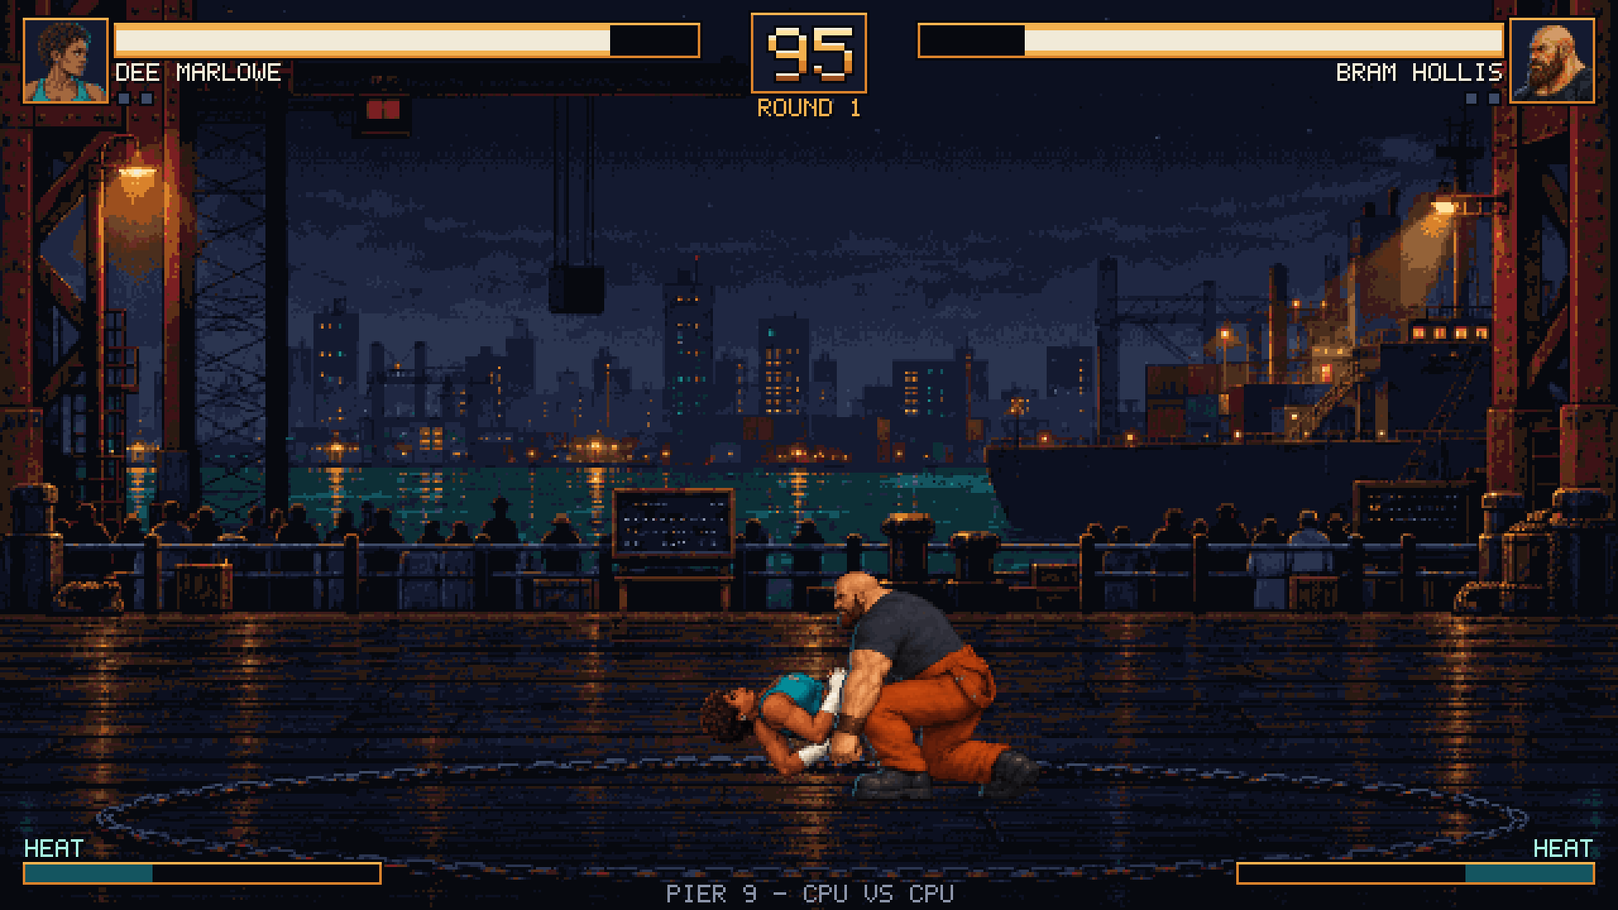
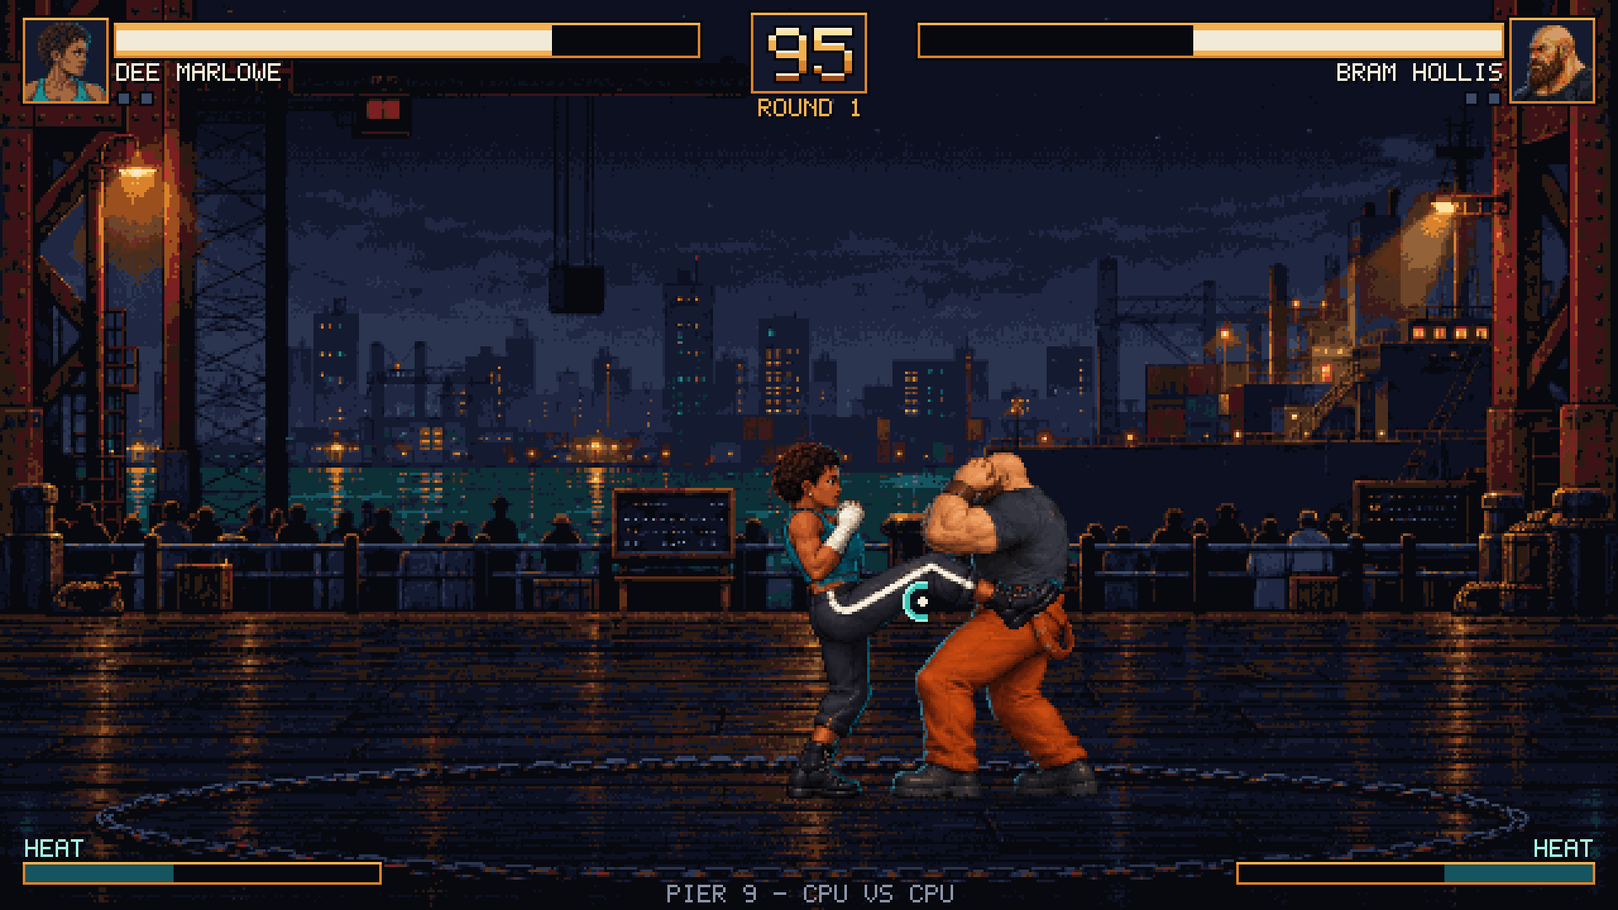
Document the hit-feel pass and the Heat decision (ADR-0018)
ADR-0018, heat.md updated with the decision and new measurements,
controls (counters, combos, cancels, on-block numbers), audio, setting,
roadmap, README (status, flags, a new demo capture).

Claude-Session: https://claude.ai/code/session_01LvD3Rr7D8U8WWpPFd1yPmD

diff --git a/docs/controls.md b/docs/controls.md
@@ -53,9 +53,16 @@ Each direction of a motion must follow the last within 12 ticks (0.2 s), and the
 | **Guard** | Guard button, or hold back | Blocks high and mid attacks standing; crouch-guard (guard + down, or down-back) also blocks lows. Not in the air. |
 | **Throw** | LP + LK together, close | Each fighter has one (below). Can't be blocked; ground only. |
 | **Throw tech** | LP + LK within 10 ticks of being grabbed | Breaks a normal throw. Command throws (Dock Hoist) can't be teched. |
-| **Breakaway** | Guard + HP + HK, with 50 Heat | Spends half the Heat bar to cancel blockstun and shove the opponent away (within 120 px). The only thing Heat pays for. |
+| **Breakaway** | Guard + HP + HK while blocking, with 50 Heat | A guard cancel: only in blockstun. Spends half the Heat bar, ends your blockstun and staggers the attacker for 18 ticks (no damage), close enough to punish. Outside blockstun the buttons are just a heavy attack. The only thing Heat pays for. |
 
-Heat builds by landing hits (12), taking hits (6), blocking (8) and having an attack blocked (3). There are no super or desperation moves.
+Heat builds by landing hits (7), taking hits (4), blocking (5) and having an attack blocked (2), and **lasts the whole match**: what you don't spend carries into the next round. There are no super or desperation moves.
+
+### Counter hits, combos and cancels
+
+- **Counter hit:** hitting a fighter while their attack is starting up or swinging (a trade doesn't count). It does 25 % more damage, adds 6 ticks of hitstun and a longer freeze, and the HUD calls **COUNTER**.
+- **Combo:** each hit that lands while the opponent is still reeling from the last one. The HUD counts the hits ("3 HITS"). Damage scales down per hit: 100 %, 85 %, 70 %, 55 %, then 50 %.
+- **Cancel:** light punches and light kicks marked *cancels* can be cut short by the special when they hit or are blocked. Enter the motion during the light attack and press the button within 6 ticks of its active frames ending. For example, Dee's jab into Rush Uppercut.
+- **On block**, light attacks are roughly even (−1 to +2). Heavies, sweeps and specials stay well minus, so blocking them earns you a punish.
 
 ## Dee Marlowe — boxer / counter
 
@@ -63,9 +70,9 @@ Fast, precise, punishes whiffs. Inputs written for each side at the start of a r
 
 | Move | Button / motion | Player 1 (facing right) | Player 2 (facing left) | Startup / active / recovery | Damage | Notes |
 | --- | --- | --- | --- | --- | --- | --- |
-| Stiff Jab | LP | F | Keypad 1 | 4 / 3 / 10 | 6 | Fastest button |
+| Stiff Jab | LP | F | Keypad 1 | 4 / 3 / 10 | 6 | Fastest button; cancels; −1 to +1 on block |
 | Cross Counter | HP | G | Keypad 2 | 8 / 3 / 20 | 12 | Heavy |
-| Shin Kick | LK | H | Keypad 3 | 7 / 4 / 15 | 9 | |
+| Shin Kick | LK | H | Keypad 3 | 7 / 4 / 15 | 9 | Cancels; −1 to +2 on block |
 | Leg Sweep | HK | J | Keypad 0 | 12 / 5 / 23 | 14 | Low (crouch-guard it), knocks down |
 | Clinch Toss | LP + LK, close | F + H | Keypad 1 + 3 | 3 / 2 / 22 | 10 | Throw, techable |
 | **Rush Uppercut** | **236 + P** (↓ ↘ → + either punch) | **S, S+D, D + F or G** | **↓, ↓+←, ← + Keypad 1 or 2** | 6 / 4 / 20 | 14 | Special: drives forward and rises; knocks down. Whiffs are very punishable |
@@ -76,9 +83,9 @@ Slow advance, close-range reads, a command throw.
 
 | Move | Button / motion | Player 1 (facing right) | Player 2 (facing left) | Startup / active / recovery | Damage | Notes |
 | --- | --- | --- | --- | --- | --- | --- |
-| Palm Shove | LP | F | Keypad 1 | 4 / 3 / 10 | 6 | |
+| Palm Shove | LP | F | Keypad 1 | 4 / 3 / 10 | 6 | Cancels; −1 to +1 on block |
 | Anchor Hook | HP | G | Keypad 2 | 10 / 3 / 23 | 16 | Heavy |
-| Boot Kick | LK | H | Keypad 3 | 7 / 4 / 15 | 9 | |
+| Boot Kick | LK | H | Keypad 3 | 7 / 4 / 15 | 9 | Cancels; −1 to +2 on block |
 | Hull Breaker | HK | J | Keypad 0 | 14 / 5 / 26 | 18 | Low (crouch-guard it), knocks down |
 | Pier Toss | LP + LK, close | F + H | Keypad 1 + 3 | 3 / 2 / 24 | 13 | Throw, techable |
 | **Dock Hoist** | **63214 + P** (→ ↘ ↓ ↙ ← + either punch) | **D, S+D, S, S+A, A + F or G** | **←, ↓+←, ↓, ↓+→, → + Keypad 1 or 2** | 5 / 2 / 34 | 20 | Special: command throw with a longer reach than Pier Toss; can't be teched, only avoided (jump, or hit him first). Huge recovery on a miss |

diff --git a/docs/adr/0018-hit-feel-and-heat.md b/docs/adr/0018-hit-feel-and-heat.md
@@ -1,0 +1,59 @@
+# ADR-0018: Counter hits, combos and cancels; the Breakaway as a guard cancel; Heat for the match
+
+- **Status:** Accepted
+- **Date:** 2026-10-30
+
+## Context
+
+Hits had one weight whatever the situation, and nothing chained. The [Heat review](../design/heat.md) found the meter near full and nearly useless: every attack was 5–23 ticks minus on block, and the Breakaway pushed the attacker out of punish range. The owner chose options A + B + C of that review. The M2 roadmap also asks for a hitstop, shake and flash pass, HDR-aware sparks, and hit-confirm audio layering, which needs counter hits and combo counts in the simulation.
+
+## Decision
+
+**Simulation** (deterministic; every new field is in the checksum):
+
+- **Counter hits.** A strike that lands while the opponent's own attack is in startup or active frames is a counter hit, unless both hit on the same tick (a trade). It does 125 % damage, +6 ticks of hitstun and +4 ticks of hitstop.
+- **Combos.** `Fighter::combo` counts the hits taken while still in hitstun, and resets when the fighter recovers.
+  - Damage scales 100 / 85 / 70 / 55 %, then 50 % for every later hit, so long strings don't delete a health bar.
+- **Cancels.** A move marked `"cancel": true` that connected (hit or block) can be cancelled into the fighter's special during its active frames plus 6 ticks. The light normals of Dee and Bram carry it.
+- **(B) Pressure.**
+  - Light attacks have real blockstun: jabs 11, light kicks 17. They are now −1 to +2 on block.
+  - Heavies and sweeps get 10–12 and stay clearly punishable.
+- **(A) Breakaway = guard cancel.** It is only possible in blockstun, still guard + HP + HK for 50 Heat. It ends the blockstun and staggers the attacker: 18 ticks of hitstun, no damage, a 24 px slide. The defender gets a punish.
+  - Outside blockstun the chord is just a heavy attack.
+  - The CPU uses it only while blocking.
+- **(C) Heat lasts the match.** `Match` carries each fighter's Heat into the next round. A new match starts at 0.
+  - The gains are lower (hit +7, hit taken +4, block +5, blocked +2) so 50 Heat is something to save for.
+- `StepEvents` items gain `attacker`, `combo` and `counter`, for presentation.
+- The golden checksum is rebaselined once for all of this. The history is in the test.
+
+**Presentation** (reacts to events only):
+
+- **HUD callouts:** "N HITS" for combos of two or more, COUNTER and BREAKAWAY on the side that did it.
+- **Audio layering:** the hit sound, plus a counter sting, plus a combo blip whose pitch rises 12 % per hit (up to 1.7×), using `MIX_SetTrackFrequencyRatio`.
+- **Shake:** a horizontal world shake that keeps counting through hitstop, so it sells the freeze. The HUD stays still. Amplitudes:
+
+  | Event | Shake |
+  | --- | --- |
+  | Heavy hit | 2 px |
+  | Counter heavy hit | 3 px |
+  | Slam | 4 px |
+  | K.O. | 5 px |
+  | Breakaway | 2 px |
+
+- **Flash:** a short additive white wash on counter hits and K.O.s.
+- **Screen effects option:** `screen-effects=full|reduced`, in Options and `prefs.cfg`. Reduced caps the shake at 1 px and turns flashes off.
+- **HDR sparks:** on HDR output, effects get a second, additive pass whose strength follows the display's headroom, so sparks glow above SDR white. SDR output is unchanged.
+  - Float textures were not needed: the sources are 8-bit pixel art, and the colour scale already reaches above 1.
+
+## Consequences
+
+- Light-attack pressure exists, and the Breakaway is the answer to it. Saving Heat across rounds is a choice.
+- Training (F3) shows the frame data; the new on-block numbers are in [controls.md](../controls.md).
+- Balance now depends on more numbers: blockstun, cancel flags, scaling, Heat gains. They all live in the fighter files or in named constants in `Round.h` and `Round.cpp`.
+- The CPU still doesn't use cancels or specials. Arcade difficulty levels (the M2 arcade ladder) will have to.
+
+## Alternatives considered
+
+- **Chains (light into light) instead of special cancels:** more input-heavy for an early-90s feel. Special cancels are the genre's classic first step.
+- **Counter hits on any hit during the opponent's recovery:** that punishes whiffs twice; recovery is already the punish window.
+- **Vertical shake:** every world-space draw would need a y offset. Horizontal shake reads well at 640 × 360.

diff --git a/README.md b/README.md
@@ -5,11 +5,11 @@
 
 An early-90s style arcade fighting game about the **Iron Ring** — an illegal, invitation-only fight-club tournament in the dying port city of Grayhaven, 1992. Big pixel-art sprites, four attack buttons, throws and specials, short explosive exchanges, built on a small, testable C++20 / SDL3 codebase. Setting and cast: [docs/design/setting.md](docs/design/setting.md).
 
-![Bram Hollis slams Dee Marlowe with the Dock Hoist at Pier 9](docs/images/m1-demo-capture.png)
+![Dee Marlowe's Shin Kick lands on Bram Hollis at Pier 9](docs/images/demo-capture.png)
 
-*Above: a real frame captured with `-batchmode -demo -screenshot`: Bram Hollis's Dock Hoist slams Dee Marlowe at Pier 9. Fighters and stages are from Iron Ring Art Pack v1 ([ADR-0012](docs/adr/0012-adopting-external-art.md)); the music (a theme per venue), sound effects and announcer are generated on a model of the NES sound chip ([docs/audio.md](docs/audio.md)).*
+*Above: a real frame captured with `-batchmode -demo -frames 420 -screenshot` at 1920 × 1080: Dee Marlowe's Shin Kick lands on Bram Hollis at Pier 9. Fighters and stages are from Iron Ring Art Pack v1 ([ADR-0012](docs/adr/0012-adopting-external-art.md)); the music (a theme per venue), sound effects and announcer are generated on a model of the NES sound chip ([docs/audio.md](docs/audio.md)).*
 
-> **Status: M2 — Complete local play, in progress.** M1 delivered Dee vs Bram with data-driven fighters, throws, specials, knockdowns, best-of-3 rounds, a pixel-art HUD, a training mode, venue themes and an announcer. M2 so far: the front end (title with an attract demo, character select, stage select, options, pause and rematch menus), saved options and gamepads. See [ROADMAP.md](ROADMAP.md).
+> **Status: M2 — Complete local play, in progress.** M1 delivered Dee vs Bram with data-driven fighters, throws, specials, knockdowns, best-of-3 rounds, a pixel-art HUD, a training mode, venue themes and an announcer. M2 so far: the front end (title with an attract demo, character and stage select, options, pause and rematch menus), saved options, gamepads and remapping, layered scrolling stages with a reacting crowd, and the hit-feel pass: counter hits, combos and cancels, a Breakaway that guard-cancels, and Heat that lasts the match. See [ROADMAP.md](ROADMAP.md).
 
 ![The title menu, character select, stage select and pause menu](docs/images/m2-front-end.png)
 
@@ -97,7 +97,7 @@ The full scheme for both players, the menus and pads, with each fighter's moves 
 | Light kick / heavy kick | H / J | Keypad 3 / 0 |
 | Guard | Space, or hold back | Right Shift, or hold back |
 | Throw (close) / throw tech (when grabbed) | F + H (LP + LK) | Keypad 1 + 3 |
-| Breakaway (50 Heat) | Guard + G + J | Guard + Keypad 2 + 0 |
+| Breakaway (50 Heat, while blocking) | Guard + G + J | Guard + Keypad 2 + 0 |
 | Menus: confirm / back | F (light punch) or Return / H (light kick) or Backspace | Keypad 1 / Keypad 3 |
 | Pause | Escape | Escape |
 
@@ -131,8 +131,9 @@ Unity-compatible names where they exist:
 | `-dummy <mode>` | Training dummy: `stand`, `crouch`, `jump`, `guard`, `guard-all` (crouches against lows), `cpu` |
 | `-stage <id>` | Straight into a fight on a stage: `pier_nine`, `lantern_row`, `foundry`, `the_crown` |
 | `-scene <name>` | Open `title`, `select`, `stage` or `options` (screenshots, testing) |
-| `-keys "<frame>:<key>,..."` | Batch tests: tap keys (SDL key names) at the given frames, e.g. `"10:Return,30:Down"` |
+| `-keys "<frame>:<key>,..."` | Batch tests: tap keys (SDL key names) at the given frames, e.g. `"10:Return,30:Down"`; `"30-90:D"` holds a key, `"40:S+D"` presses keys together |
 | `-music-volume 0..1`, `-sfx-volume 0..1`, `-voice-volume 0..1` | Mix-group volumes (also in `boot.config` and Options) |
+| `-screen-effects full\|reduced` | Reduced: a gentle shake and no full-screen flashes (also in Options) |
 | `-hdr auto\|on\|off`, `-vsync 0\|1`, `-presentation integer\|letterbox`, `-render-driver <name>` | Override `boot.config` |
 | `-data-folder <path>` | Use another `<name>_Data` folder |
 | `-assets-folder <path>` | Mount a loose `Assets/` folder over the archives (edit-and-run without repacking) |

diff --git a/docs/design/heat.md b/docs/design/heat.md
@@ -1,8 +1,26 @@
-# Heat: what it does today, and what it could do
+# Heat: what it did, and what it does now
 
-Review, 2026-10-30, against the M2 code (`Source/Simulation/Round.cpp`) and the shipped fighter data. Heat is the 0–100 meter under each health bar.
+Heat is the 0–100 meter under each health bar.
 
-## The rules as built
+> **Decision (2026-10-30): options A + B + C, built with the hit-feel pass ([ADR-0018](../adr/0018-hit-feel-and-heat.md)).** The section "Now" below is what the game does; the review that led to it follows.
+
+## Now
+
+| | |
+| --- | --- |
+| **Gain** | landing a hit or a throw +7; taking one +4; blocking +5; having your attack blocked +2. Capped at 100. |
+| **Lifetime** | the whole match: Heat carries into the next round (C). |
+| **Spend** | the **Breakaway**, only in blockstun (A): guard + HP + HK, 50 Heat. It ends your blockstun and **staggers the attacker** for 18 ticks without damage, sliding them 24 px: still in reach, so the defender punishes. |
+| **Pressure to break** | light attacks are −1 to +2 on block and cancel into the special (B), so a defender can be kept under strings worth escaping. Heavies and specials stay punishable on block. |
+| **CPU** | breaks away now and then while it is in blockstun, never in neutral. |
+
+Measured again over 40 CPU-vs-CPU matches (93 rounds): Breakaways roughly doubled, and fighters end rounds with 61–67 Heat on average (from 81–91), now banked for the next round instead of thrown away. The lower gains keep a Breakaway something to save for.
+
+## Review (before the change)
+
+Against the M2 code and the shipped fighter data, as it was:
+
+### The rules as built
 
 | | |
 | --- | --- |
@@ -11,7 +29,7 @@ Review, 2026-10-30, against the M2 code (`Source/Simulation/Round.cpp`) and the 
 | **Lifetime** | one round. `Round::reset()` starts both fighters at 0 every round. |
 | **Desperation / supers** | none, by decision (2026-10-29). |
 
-## What it actually does
+### What it actually did
 
 Heat has a role on paper, but it hardly matters in play.
 
@@ -35,7 +53,7 @@ Heat has a role on paper, but it hardly matters in play.
 
 In short: the meter fills quickly, sits near full, and its only outlet is rarely worth taking. The crowd now reacts to big hits (stage crowds, M2). That reaction is presentation only and doesn't involve Heat.
 
-## Options (for the project owner)
+### Options considered
 
 All of these keep the "no supers" decision; Heat still pays only for the Breakaway.
 
@@ -48,4 +66,4 @@ All of these keep the "no supers" decision; Heat still pays only for the Breakaw
 - **C. Keep Heat across rounds** (reset per match). It becomes a resource you save for the deciding round instead of a bar that refills for free.
 - **D. Leave it as is** and treat Heat as flavour until the hit-feel pass (counter hits, combos), which will change block and hit advantage anyway.
 
-**Recommendation:** A + B + C, folded into the M2 hit-feel pass. That pass already changes the simulation (counter hits, combo counts) and will rebaseline the golden checksum once. The CPU then spends Heat when it is actually blocking a string, not on a timer.
+**Chosen:** A + B + C.

diff --git a/ROADMAP.md b/ROADMAP.md
@@ -62,7 +62,7 @@ Goal: two characters that feel good in local play on one stage. Target platforms
 - ✅ Persistent settings: `prefs.cfg` in the user folder, between `boot.config` and the command line
 - ✅ Renderer recreation when the HDR option, the display's HDR state or the display changes; fullscreen, scaling and vsync change live
 - ✅ Stage layers and parallax; animated crowds that react to the fight; camera follow (no zoom: pixel art) on stages wider than the screen; **The Foundry**, the first layered venue, with placeholder art and its own theme ([ADR-0017](docs/adr/0017-layered-stages-and-camera.md))
-- ⬜ Hitstop/shake/flash tuning pass; HDR-aware VFX (float textures for sparks); hit-confirm audio layering (needs counter hits and combo counts in the simulation)
+- ✅ Hit feel: counter hits, combo counts with damage scaling, special cancels; shake and flash (with a reduced option); HDR spark glow; layered hit audio (counter sting, rising combo blip); HUD callouts. Heat reworked (A + B + C of [docs/design/heat.md](docs/design/heat.md)): the Breakaway is a guard cancel that staggers, light attacks pressure on block, Heat lasts the match ([ADR-0018](docs/adr/0018-hit-feel-and-heat.md))
 - ⬜ **Vertical slice**: the complete local loop for Dee vs Bram at release quality; final art takes over from placeholder art where the slice needs it (see *How art is made*)
 - ⬜ Arcade ladder with CPU difficulty levels
 
@@ -111,8 +111,9 @@ Goal: two characters that feel good in local play on one stage. Target platforms
 | 2026-10-30 | Art process | Placeholder art and guidelines here, final art made by the owner elsewhere, review and corrections here, then polish; final art replaces placeholders at the vertical slice; Art Pack v2 in M3 |
 | 2026-10-30 | Announcer | Keep the eSpeak NG source for now |
 | 2026-10-30 | Front end | Scene stack; options saved to `prefs.cfg`; Escape pauses instead of quitting; the Arcade entry stays disabled until the ladder lands ([ADR-0015](docs/adr/0015-front-end-scene-stack.md)) |
+| 2026-10-30 | Heat | A + B + C: Breakaway as a guard cancel, light-attack pressure on block, Heat carries across rounds ([docs/design/heat.md](docs/design/heat.md)) |
 | 2026-10-30 | Final art | Art Pack v1 adopted; frames re-registered at one scale, 48 colours per fighter ([ADR-0012](docs/adr/0012-adopting-external-art.md)) |
 
 ## Open questions for the project owner
 
-- **Heat's role.** Heat fills fast and its only use, the Breakaway, rarely helps (every attack is already minus on block). Options and a recommendation: [docs/design/heat.md](docs/design/heat.md).
+None at the moment.

diff --git a/docs/art/asset-spec.md b/docs/art/asset-spec.md
@@ -128,7 +128,7 @@ Units: lengths in logical pixels, speeds in 1/256 px per tick, times in ticks. B
 ```
 
 - `moves` keys: `lightPunch`, `heavyPunch`, `lightKick`, `heavyKick`, `throw`, `special` (all optional, but the starters define all six).
-- Move fields: `name`, `animation`, `startup`, `active`, `recovery`, `hitbox`, `damage`, `hitstun`, `blockstun` (7), `knockback`, `blockPush` (3), `hitstopOnHit` (5), `hitstopOnBlock` (3), `low`, `heavy`, `knockdown`, `advance` (forward speed during the move), `hurt` (optional per-phase hurtboxes: `{"startup"|"active"|"recovery": [[x, y, w, h], ...]}`, one or two boxes each, e.g. the body plus an extended limb; a phase without boxes uses the stand/crouch box); throws add `kind: "throw"`, `holdAnimation`, `throwDuration` (40), `throwDistance` (50), `techable`; specials add `input` in numpad notation (`236P`, `63214P`; P/K = either punch/kick). Values in brackets are defaults.
+- Move fields: `name`, `animation`, `startup`, `active`, `recovery`, `hitbox`, `damage`, `hitstun`, `blockstun` (7), `knockback`, `blockPush` (3), `hitstopOnHit` (5), `hitstopOnBlock` (3), `low`, `heavy`, `knockdown`, `cancel` (the special may cancel its recovery on hit or block), `advance` (forward speed during the move), `hurt` (optional per-phase hurtboxes: `{"startup"|"active"|"recovery": [[x, y, w, h], ...]}`, one or two boxes each, e.g. the body plus an extended limb; a phase without boxes uses the stand/crouch box); throws add `kind: "throw"`, `holdAnimation`, `throwDuration` (40), `throwDistance` (50), `techable`; specials add `input` in numpad notation (`236P`, `63214P`; P/K = either punch/kick). Values in brackets are defaults.
 - `animations` must contain: `idle`, `walk`, `crouch`, `guard`, `guard_crouch`, `jump_rise`, `jump_fall`, `hit`, `hit_crouch`, `held`, `knockdown`, `ko`, `win`, plus every animation a move names. A frame entry is `[frame, ticks]` or, in throw holds, `[frame, ticks, opponentFrame]`.
 - No desperation / super moves: the Heat meter only pays for the Breakaway (guard + HP + HK, 50 Heat), which uses no extra frames.
 

diff --git a/docs/architecture.md b/docs/architecture.md
@@ -42,7 +42,7 @@ Static libraries without SDL (`Core`, `Vfs`, `Simulation`, `Content`) carry ever
 | `Game/FighterView` | simulation state → animation frame (and the held opponent's pose during throws) |
 | `Game/StageView` | a flat stage, or layers with parallax, drift and animation for a camera position; the crowd's excitement (raised by hits, throws, K.O.s) |
 | `Game/Effects` | short sprite effects spawned from `StepEvents`, HDR-boosted |
-| `Game/Hud` | health, Heat, timer, portraits, win markers, round banners, from `hud_layout.json` |
+| `Game/Hud` | health, Heat, timer, portraits, win markers, round banners, from `hud_layout.json`; combo counter and COUNTER / BREAKAWAY callouts |
 | `Game/TrainingOverlay` | F3: hit/hurt boxes (per move phase), move frame data, frame advantage |
 | `Game/InputDisplay` | training: both players' recent inputs (ticks, numpad direction, buttons) |
 | `Game/Controls` | keyboard and gamepads → simulation input bits (edge latch between ticks) and menu actions; bindings from `Core/InputBindings` (per player, per pad device) |

diff --git a/docs/design/setting.md b/docs/design/setting.md
@@ -14,8 +14,8 @@ The **Iron Ring** is an illegal, invitation-only fighting tournament run by a pr
 
 | Term | Meaning | In code / data |
 | --- | --- | --- |
-| **Heat** | 0–100 meter built by hitting, getting hit and blocking — the crowd's attention | `Fighter::meter`, HUD label `meterName` |
-| **Breakaway** | Guard + heavy punch + heavy kick for 50 Heat: a non-damaging shove that cancels blockstun. The only thing Heat pays for | `Effect::Breakaway`, `sim::kBreakCost` |
+| **Heat** | 0–100 meter built by hitting, getting hit and blocking — the crowd's attention; it lasts the whole match | `Fighter::meter`, HUD label `meterName` |
+| **Breakaway** | Guard + heavy punch + heavy kick for 50 Heat while blocking: a guard cancel that staggers the attacker, no damage ([heat.md](heat.md)). The only thing Heat pays for | `Effect::Breakaway`, `sim::kBreakCost` |
 | **Desperation moves** | None, by decision (2026-10-29). Low health gives no super; comebacks come from Heat and reads | — |
 | **The Broker** | Unseen promoter; final-boss candidate | — |
 

diff --git a/docs/audio.md b/docs/audio.md
@@ -24,6 +24,8 @@ Encoding the music needs `ffmpeg` with libvorbis; `--check` does not.
 | `round_bell` | "FIGHT!", time over, a drawn match | boxing bell, struck twice |
 | `ko` | a round ends by K.O. | impact, then a long falling tone over a rumble |
 | `victory` | the match is won | 3-second jingle, the theme's D minor resolving to D major |
+| `counter` | a counter hit, over the hit sound | bright two-step clang, rising |
+| `combo` | each combo hit after the first, over the hit sound | short blip, played 12 % higher per hit (up to 1.7×) |
 | `menu_move` | a menu cursor or setting moves | very short, quiet high blip |
 | `menu_confirm` | a menu choice, a fighter picked, the pause menu opens | two-note rising blip |
 | `menu_back` | backing out, or a locked fighter | the confirm's notes, falling |

diff --git a/docs/adr/README.md b/docs/adr/README.md
@@ -21,3 +21,4 @@ One file per decision, numbered, never renumbered. Supersede rather than rewrite
 | [0015](0015-front-end-scene-stack.md) | Build the front end on a scene stack, with saved options in prefs.cfg | Accepted |
 | [0016](0016-remapping-and-renderer-recreation.md) | Remap controls per player and per pad; recreate the renderer for HDR | Accepted |
 | [0017](0017-layered-stages-and-camera.md) | Layered stages wider than the screen, a follow camera, no zoom | Accepted |
+| [0018](0018-hit-feel-and-heat.md) | Counter hits, combos and cancels; the Breakaway as a guard cancel; Heat for the match | Accepted |
